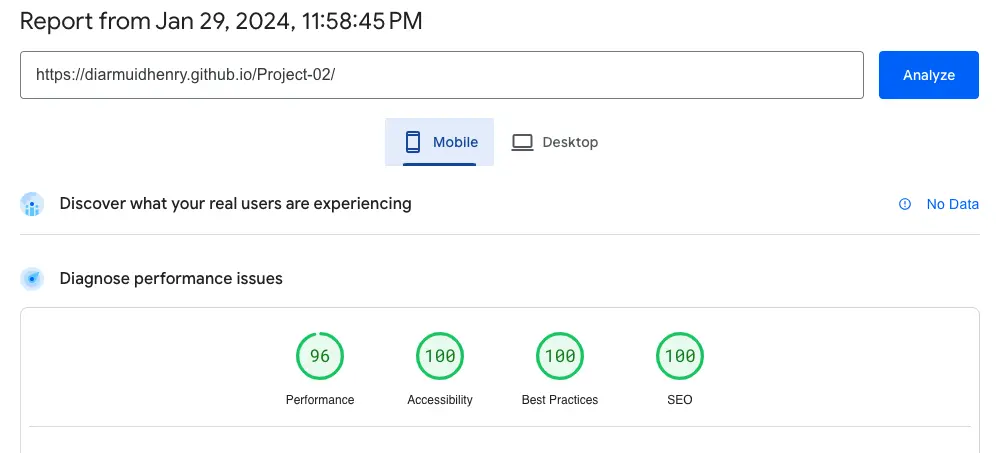
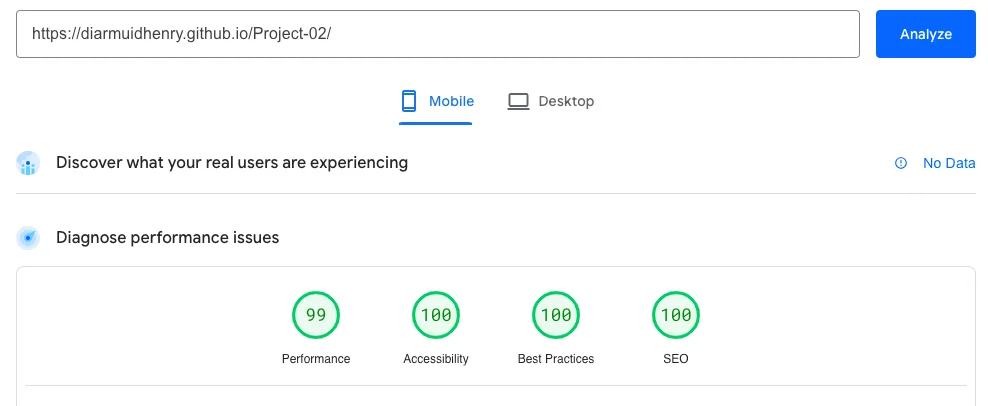
added live links to testing in README

diff --git a/README.md b/README.md
@@ -272,7 +272,7 @@ I fixed this by changing the display style to `grid` and organised the elements 
 
 - _Unresponsive Button on 404 Page_
 
-The *Return to game* button on the 404 page was not functioning. After examining both `error-script.js` and `404.html`, I realised it was because the script was incorrectly named in `404.html`. This was a simple fix, and the button now works as intended.
+The *Return to Game* button on the 404 page was not functioning. After examining both `error-script.js` and `404.html`, I realised it was because the script was incorrectly named in `404.html`. This was a simple fix, and the button now works as intended.
 
 ### Unresolved
 
@@ -287,8 +287,8 @@ The *Return to game* button on the 404 page was not functioning. After examining
 |Test Item|Test Carried Out|Result|Pass/Fail|
 |-------------|------------------|-----------|-------|
 |Button hover background|Hover over any button/anchor|The background of the button fades to a darker colour|PASS|
-|*Instructions* button|Click on *Instructions* button|The drop down text appeared along with the image. The text in the button changed to *Return to game*|PASS|
-|*Return to game* button|Click on *Return to game* button|The drop down text disappeared. The text in the button changed back to *Instructions* and the 2 game start buttons appear|PASS|
+|*Instructions* button|Click on *Instructions* button|The drop down text appeared along with the image. The text in the button changed to *Return to Game*|PASS|
+|*Return to Game* button|Click on *Return to Game* button|The drop down text disappeared. The text in the button changed back to *Instructions* and the 2 game start buttons appear|PASS|
 |Page heading/title|Click on *Rock Paper Scissors Lizard Spock* heading|Homepage reloads|PASS|
 |*Play against the computer* button|Click on *Play against the computer* button|Player v Computer game loads correctly and starts|PASS|
 |*Play against a friend* button|Click on *Play against a friend* button|Player v Player game loads correctly and starts|PASS|
@@ -349,7 +349,7 @@ WAVE revealed no errors and no contrast errors. As this needed to be tested thro
 
 ### PageSpeed Insight Tests
 
-The page scored 100 on all metrics on computers and 96+ on mobile devices.
+The page scored 100 on all metrics on Desktop and 99+ on Mobile devices. [Click here to perform this test on your own device.](https://pagespeed.web.dev/analysis/https-diarmuidhenry-github-io-Project-02/4ubq8yky3z?form_factor=mobile).
 
 ![PageSpeed Result Desktop](./documents/readme-images/pagespeed-result-desktop.webp)
 
@@ -363,13 +363,13 @@ JSHint returned no errors, only 7 warnings about functions being contained withi
 
 ### HTML Code Validation
 
-HTML Checker showed no warnings or errors.
+[HTML Checker showed no warnings or errors.](https://validator.w3.org/nu/?doc=https%3A%2F%2Fdiarmuidhenry.github.io%2FProject-02%2F)
 
 ![HTML Validation](./documents/readme-images/html-validation.webp)
 
 ### CSS Code Validation
 
-W3C CSS Validator found no errors.
+[W3C CSS Validator found no errors.](https://jigsaw.w3.org/css-validator/validator?uri=https%3A%2F%2Fdiarmuidhenry.github.io%2FProject-02%2F&profile=css3svg&usermedium=all&warning=1&vextwarning=&lang=en)
 
 ![CSS Validation](./documents/readme-images/css-validation.webp)
 
